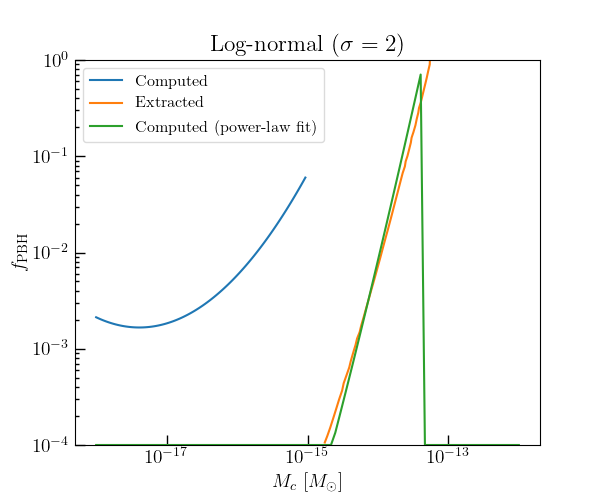
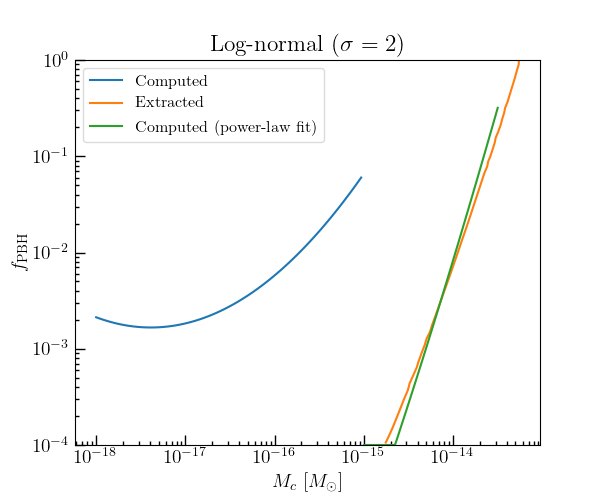
Small improvements to figures, correct directory for figure showing extracted results.

diff --git a/reproduce_extended_MF.py b/reproduce_extended_MF.py
@@ -86,7 +86,7 @@ m_range = 10**np.arange(-20, -10, 0.05)
 f_max_evaporation_mono_extrapolated = prefactor * np.power(m_range, power)
 
 # Range of characteristic masses in log-normal mass function for the power-law approximation
-mc_evaporation_extrapolated = 10**np.linspace(-18, -12, 100)
+mc_evaporation_extrapolated = 10**np.linspace(-15, -13.5, 100)
 
 # Subaru-HSC constraints
 mc_subaru = 10**np.linspace(-11.5, -4.5, 100)
